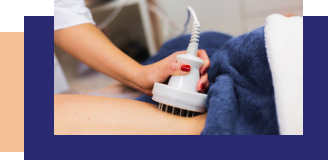
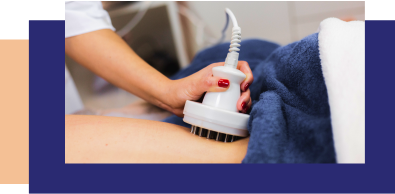
home version desktop

diff --git a/src/components/home/Home.jsx b/src/components/home/Home.jsx
@@ -1,9 +1,8 @@
 /* eslint-disable jsx-a11y/anchor-is-valid */
 import "./home.css"
-import imageMasajes from "./image-masajes.png"
-import imageElectrodos from "./image-sesiones-de-electrodos.png"
 import perfilEspecialista from "./perfil-especialista.png"
 import { ReactComponent as IconWpp } from "./icon-whatsapp.svg"
+import { ReactComponent as IconArrowDown } from "./vector-down.svg"
 import MasajesYElectrodos from "./MasajesYElectrodos.jsx"
 import Carousel from "./Carousel.jsx"
 export default function Home(){
@@ -16,6 +15,7 @@ export default function Home(){
           <p className="font-gilda piel regalate-el-cuidado-title text-center">Regalate el cuidado que mereces</p>
           <p className="text-light regalate-el-cuidado-text text-center">Masajes descontracturantes, masajes con piedras, sesiones de electrodos y mucho más.</p>
         </div>
+        <IconArrowDown className="vector-down"/>
         {/* Boton para hablar por whatsapp */}
         <a className="hablamos btn bg-azul-oceano d-flex" href="#">
           <p className="text-light w-100 hablamos-text">¿Hablamos?</p>
@@ -25,27 +25,27 @@ export default function Home(){
       {/* Seccion masajes y electrodos */}
       <MasajesYElectrodos
         title="Masajes"
-        image={imageMasajes}
         alt="Mujer recibiendo masajes"
       />
       <MasajesYElectrodos
         title="Electrodos"
-        image={imageElectrodos}
         alt="Tratamiento con electrodos"
       />
       {/* Descripcion de especialista */}
-      <div className="bg-azul-oceano">
-        <div className="text-center mt-3">
-          <img src={perfilEspecialista} alt="Foto de la especialista en masajes" className="mt-5" />
+      <div className="bg-azul-oceano mt-5 mb-5 d-md-flex flex-wrap align-items-center">
+        <div className="text-center pt-3 pt-md-5 pb-md-5 col-md-6">
+          <img src={perfilEspecialista} alt="Foto de la especialista en masajes" className="" />
         </div>
-        <p className="perfil-especialista-title text-center piel pt-4">¡Hola! soy Maru</p>
-        <p className="perfil-especialista-text text-center text-light px-3 pb-5">"Lorem ipsum dolor sit amet, consectetur adipiscing elit, sed do eiusmod tempor incididunt ut labore et dolore magna aliqua duis aute irure dolor in reprehenderit in voluptate.</p>
+        <div className="col-md-6 col-xl-4 pt-5 pb-5 p-2">
+          <p className="perfil-especialista-title text-center piel">¡Hola! soy Maru</p>
+          <p className="perfil-especialista-text text-center text-light">"Lorem ipsum dolor sit amet, consectetur adipiscing elit, sed do eiusmod tempor incididunt ut labore et dolore magna aliqua duis aute irure dolor in reprehenderit in voluptate.</p>
+        </div>
       </div>
       {/* Reseñas clientes */}
       <div>
         <p className="reseñas-title text-center azul-oceano font-gilda">Lo que dicen mis clientes</p>
         <div id="carouselExampleControlsNoTouching" className="carousel slide" data-bs-touch="false" data-bs-interval="false">
-          <div className="carousel-inner p-3">
+          <div className="carousel-inner p-3 p-md-0 pb-md-5">
             <Carousel
               title="Eli"
               text='"Súper relajante, cómodo y hermoso lugar”.'
@@ -68,11 +68,11 @@ export default function Home(){
               text='"¡Muy linda experiencia! Volvería a ir sin dudas”.'
             />
           </div>
-          <button className="carousel-control-prev" type="button" data-bs-target="#carouselExampleControlsNoTouching" data-bs-slide="prev">
+          <button className="carousel-control-prev ps-md-5" type="button" data-bs-target="#carouselExampleControlsNoTouching" data-bs-slide="prev">
             <span className="carousel-control-prev-icon" aria-hidden="true" />
             <span className="visually-hidden">Previous</span>
           </button>
-          <button className="carousel-control-next" type="button" data-bs-target="#carouselExampleControlsNoTouching" data-bs-slide="next">
+          <button className="carousel-control-next pe-md-5" type="button" data-bs-target="#carouselExampleControlsNoTouching" data-bs-slide="next">
             <span className="carousel-control-next-icon" aria-hidden="true" />
             <span className="visually-hidden">Next</span>
           </button>

diff --git a/src/components/home/MasajesYElectrodos.jsx b/src/components/home/MasajesYElectrodos.jsx
@@ -1,23 +1,31 @@
 import MasajesYElectrodosLinks from "./MasajesYElectrodosLinks"
-export default function MasajesYElectrodos({title,image,alt}){
+import imageMasajes from "./image-masajes-descontracturantes.png"
+import imageElectrodos from "./image-sesiones-de-electrodos.png"
+import imageLevantamiento from "./image-levantamiento-electrodos.png"
+import imageMaderoterapia from "./image-masajes-con-maderoterapia.png"
+import imagePiedras from "./image-masajes-descontracturantes-piedras-calientes.png"
+import imageReductores from "./image-masajes-reductores-electrodos.png"
+
+
+export default function MasajesYElectrodos({title,alt}){
   if(title==="Masajes"){
     return(
       <div className="mt-5">
-        <p className="azul-oceano font-gilda fs-1 text-center">{title}</p>
-        <img src={image} alt={alt} className="masajes-y-electrodos-image"/>
-        <MasajesYElectrodosLinks text="Masajes descontracturantes" link=""/>
-        <MasajesYElectrodosLinks text="Masajes descontracturantes + piedras calientes" link=""/>
-        <MasajesYElectrodosLinks text="Masajes con maderoterapia" link=""/>
+        <p className="azul-oceano font-gilda masajes-y-electrodos-title text-center">{title}</p>
+        <img src={imageMasajes} alt={alt} className="masajes-y-electrodos-image"/>
+        <MasajesYElectrodosLinks text="Masajes descontracturantes" link="" image={imageMasajes}/>
+        <MasajesYElectrodosLinks text="Masajes descontracturantes + piedras calientes" link=""image={imagePiedras}/>
+        <MasajesYElectrodosLinks text="Masajes con maderoterapia" link=""image={imageMaderoterapia}/>
       </div>
     )
   }else{
     return(
       <div className="mt-5">
-        <p className="azul-oceano font-gilda fs-1 text-center">{title}</p>
-        <img src={image} alt={alt} className="masajes-y-electrodos-image"/>
-        <MasajesYElectrodosLinks text="Sesiones de electrodos" link=""/>
-        <MasajesYElectrodosLinks text="Levantamiento de glúteos + electrodos" link=""/>
-        <MasajesYElectrodosLinks text="Masajes reductores + electrodos" link=""/>
+        <p className="azul-oceano font-gilda masajes-y-electrodos-title text-center">{title}</p>
+        <img src={imageElectrodos} alt={alt} className="masajes-y-electrodos-image"/>
+        <MasajesYElectrodosLinks text="Sesiones de electrodos" link=""image={imageElectrodos}/>
+        <MasajesYElectrodosLinks text="Levantamiento de glúteos + electrodos" link=""image={imageLevantamiento}/>
+        <MasajesYElectrodosLinks text="Masajes reductores + electrodos" link=""image={imageReductores}/>
       </div>
     )
   }

diff --git a/src/components/home/home.css b/src/components/home/home.css
@@ -1,16 +1,16 @@
-/* .image{
-  height: 100vh;
-  width: 100vw;
-  overflow: hidden;
-  position: absolute;
-  z-index: -1;
-} */
 .wrapper {
     height:100vh;
+    padding-top: 2vh;
     background-image: url("./image-banner.jpg");
     background-repeat: no-repeat;
     background-position:center;
     background-size: cover;
+}
+
+.vector-down{
+  position: absolute;
+  top: 65%;
+  left: 48.45%;
 }
 
 .regalate-el-cuidado{
@@ -27,7 +27,7 @@
 
 .hablamos{
   width: 90%;
-  margin: 60vh 5% 25vh 5%;
+  margin: 55vh 5% 25vh 5%;
   height: fit-content;
 }
 .hablamos-text{
@@ -37,10 +37,20 @@
   align-self: center;
 }
 
+.masajes-y-electrodos-title{
+  font-weight: 400;
+  font-size: 30px;
+  line-height: 35px;
+}
+
 .masajes-y-electrodos-image{
   width: 90%;
   margin-left: 5%;
   margin-bottom: 7%;
+}
+
+.masajes-y-electrodos-image-desktop{
+  display: none;
 }
 
 .masajes-y-electrodos-btn{
@@ -79,4 +89,83 @@
 
 .reseñas-carousel-text{
   font-size: 18px;
+}
+
+.carousel-control-prev-icon {
+  background-image: url("./vector-left.svg") !important;
+}
+
+.carousel-control-next-icon {
+  background-image: url("./vector-right.svg") !important;
+}
+
+
+@media (min-width:768px){
+  .regalate-el-cuidado{
+    margin: 0 10%;
+  }
+  .regalate-el-cuidado-title{
+    padding-top:10px;
+  }
+  .regalate-el-cuidado-text{
+    padding-bottom:10px;
+  }
+  .hablamos{
+    width: 70%;
+    margin: 65vh 15% 25vh 15%;
+  }
+  .wrapper {
+    padding-top: 4vh;
+  }
+  .masajes-y-electrodos-image{
+    width: 50%;
+    margin-left: 25%;
+  }
+  .masajes-y-electrodos-btn{
+    width: 70%;
+    margin:2% 0 2% 15%;
+  }
+  .reseñas-carousel-text{
+    padding: 0 25%;
+  }
+}
+
+@media (min-width:1200px){
+  .regalate-el-cuidado{
+    margin: 0 15%;
+  }
+  .regalate-el-cuidado-title{
+    padding-top:30px;
+  }
+  .regalate-el-cuidado-text{
+    padding-bottom:30px;
+  }
+  .hablamos{
+    width: 30%;
+    margin: 65vh 35% 25vh 35%;
+  }
+  .masajes-y-electrodos-image{
+    display: none;
+  }
+  .masajes-y-electrodos-image-desktop{
+    display:block;
+  }
+  .masajes-y-electrodos-title{
+    font-size: 48px;
+    line-height: 56px;
+  }
+  .masajes-y-electrodos-btn{
+    width: 25%;
+    margin:2%;
+    font-size: 24px;
+  }
+  .perfil-especialista-title{
+    font-size: 48px;
+  }
+  .perfil-especialista-text{
+    font-size: 20px;
+  }
+  .reseñas-title{
+    font-size: 48px;
+  }
 }

diff --git a/src/components/home/MasajesYElectrodosLinks.jsx b/src/components/home/MasajesYElectrodosLinks.jsx
@@ -1,7 +1,10 @@
-export default function MasajesYElectrodosLinks({text,link}){
+export default function MasajesYElectrodosLinks({text,link,image}){
   return(
-    <a href={link} className="masajes-y-electrodos-btn btn azul-oceano">
-      {text}
-    </a>
+    <div className="d-xl-flex flex-wrap justify-content-center mb-xl-5 mt-xl-2">
+      <img src={image} alt={"foto de "+text} className="masajes-y-electrodos-image-desktop col-4"/>
+      <a href={link} className="masajes-y-electrodos-btn btn azul-oceano col-xl-4 ">
+        <p className="h-100 align-items-center justify-content-center d-xl-flex">{text}</p>
+      </a>
+    </div>
   )
 }

diff --git a/src/components/footer/Footer.jsx b/src/components/footer/Footer.jsx
@@ -11,7 +11,7 @@ export default function Footer(){
       <Logo/>
       <p className="col-12 text-center text-light direccion">Dirección: Lorem ipsum dolor sit
 ipsum dolor sit</p>
-      <ul className="nav col-md-4 justify-content-end list-unstyled d-flex">
+      <ul className="nav col-md-4 justify-content-center list-unstyled d-flex">
         <li className="ms-3"><a className="text-light" href="#"><IconFacebook/></a></li>
         <li className="ms-3"><a className="text-light" href="#"><IconTikTok/></a></li>
         <li className="ms-3"><a className="text-light" href="#"><IconInstagram/></a></li>

diff --git a/src/components/home/Carousel.jsx b/src/components/home/Carousel.jsx
@@ -1,7 +1,7 @@
 export default function Carousel({title,text,active}){
   return(
     <div className={`carousel-item ${active && "active"}`}>
-      <div className="d-flex flex-wrap w-100 reseñas-carousel p-4">
+      <div className="d-flex flex-wrap w-100 reseñas-carousel p-4 justify-content-center">
         <p className="text-center reseñas-carousel-title col-12">{title}</p>
         <p className="text-center reseñas-carousel-text">{text}</p>
       </div>
